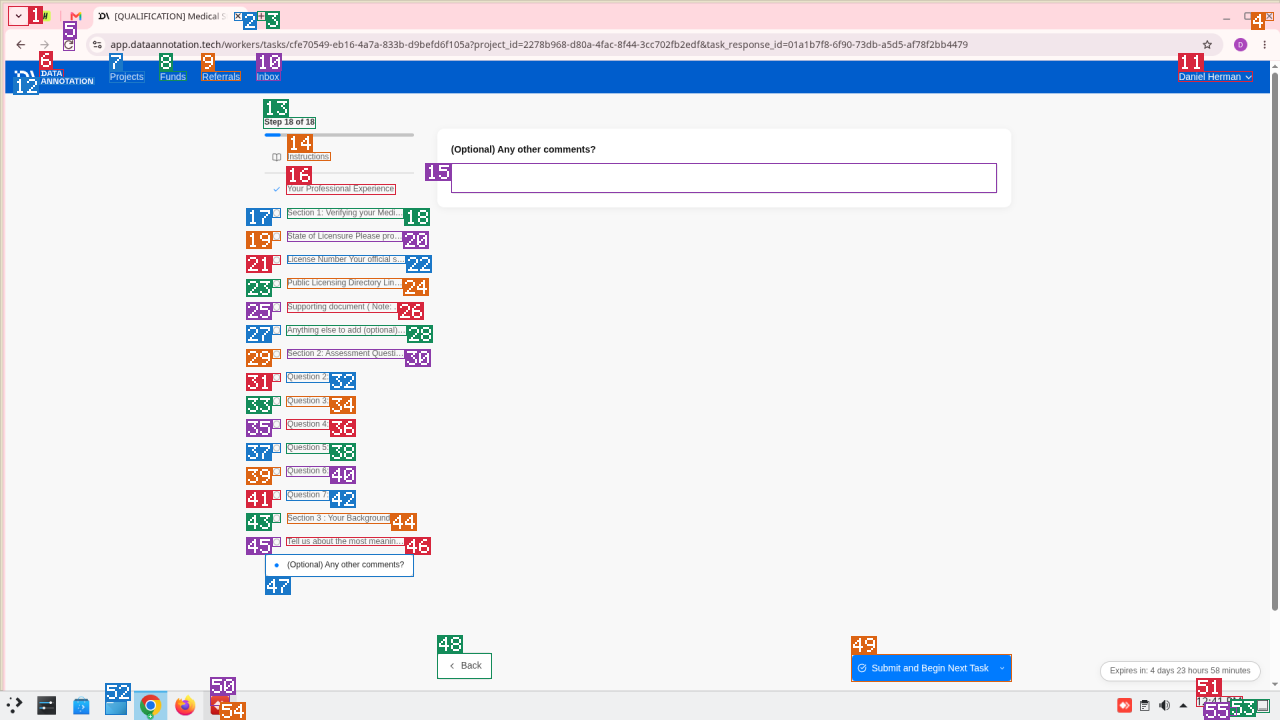
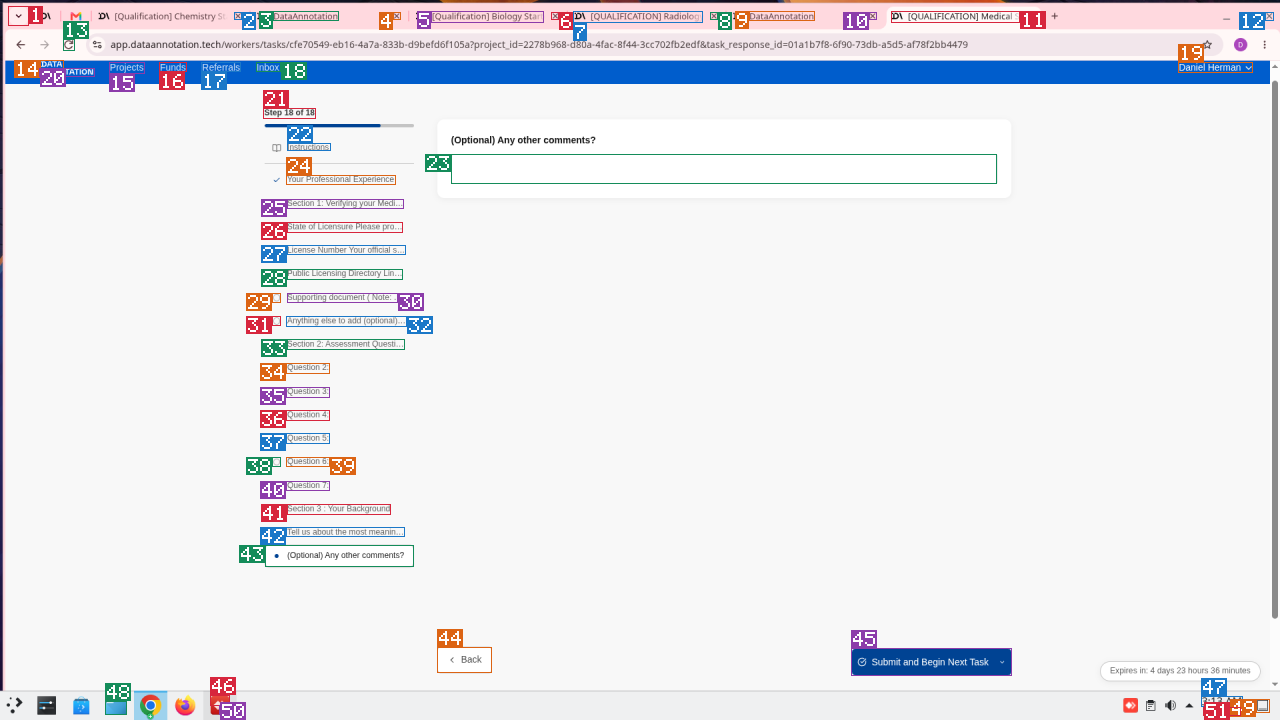
Bank Physician Medical Domain Section3 and Biology/Internist live fills.

diff --git a/skills/take-dataannotation-assessment/problems/problems-biologist.md b/skills/take-dataannotation-assessment/problems/problems-biologist.md
@@ -6,7 +6,7 @@
 - **Captured:** 2026-11-09 · host 34123 · sleep autonomy
 - **Live IDs:** task `9c0d6c30-c43d-49e9-b449-16b48aef2679` · `project_id=a8995013-95b2-4e88-b674-8a9d4a6dc04d` · `task_response_id=01a1c007-5ded-7c9f-89ef-4b4cfbb336bf`
 - **Track:** Role intro = **Biology Projects assessment**; live qualification = **[Qualification] Biology Starter Assessment** (unique biology form — **not** Expert Domain Parallel)
-- **Gaps:** Q1A plant-cross full Response A/B/C prose + DNA strand table + Q7 AI middle steps — PNG assets are source of truth; Instructions OCR may say “chemical reactions” (template bleed) — bank as live
+- **Gaps:** Q7 Medium paragraph line-wrap OCR soft; DNA strand table on Q5 if incomplete — PNG assets remain glyph/table source of truth. Q1A A/B/C + Q7 AI body filled 2026-11-10 host 34123 live OCR. Instructions OCR may say “chemical reactions” (template bleed) — bank as live. **Not** stamping verified.
 - **Rule:** never Submit while fetching
 
 ### Role
@@ -132,13 +132,57 @@ Good luck, and we look forward to receiving your submission!
 ## Question 1A · Allele Inheritance
 
 **Type:** mcq (Responses A/B/C)  
-**Title:** Question 1A: Allele Inheritance *(see PNG for full plant-cross stem)*
+**Title:** Question 1A: Allele Inheritance  
+**Captured:** 2026-11-10 host 34123 · host `ocr` on live Q1A + look `q1a-live-20261110.png`
 
 ### Prompt
 
-Breed fungus-resistant (D) and high-yielding (Y) plants. Plant E: **DDyy**. Plant M: **DdYy**. Plant C (from E×M): healthy **DD** + high yield. Goal **DDYY**. Which parent (E, M, or another Plant C) crossed with Plant C gives the highest ratio of **DDYY** to plants carrying homozygous recessive **dd** or **yy**?
+Imagine a user asked the following request to an AI assistant:
 
-Three AI Responses A/B/C argue different crosses (see `q1-alleles.png`).
+> "A biologist is attempting to breed a plant that is resistant to a specific fungus but also produces high yields. The biologist has obtained a fungus-resistant plant (Plant E) with the homozygous dominant fungus-resistant trait DD but a homozygous recessive low-yield trait yy. A heterozygous high-yielding sample of a plant (Plant M) that has a heterozygous Dd trait has also been obtained and is crossed with the homozygous plant. The first crop of the crossbred plants is grown, and a healthy plant with a homozygous fungal resistance trait that produced a high yield (Plant C) is selected.
+>
+> The biologist can cross Plant C with either Plant E, Plant M, or another healthy new crossbreed with the same traits as Plant C. The ultimate goal is a homozygous dominant plant for both fungus resistance and high yield (DDYY). Considering the goal, is Plant E, Plant M, or another Plant C the best option to cross with the new Plant C to give the highest ratio of plants that meet the DDYY goal to plants with a homozygous recessive trait (dd or yy)?"
+
+The following are three solutions that were returned by the AI:
+
+### Response A
+
+There are two goals in this scenario:
+
+1. Create a fungus resistant plant breed.
+2. Create a high-yielding plant breed.
+
+A low yield would be contrary to the second goal, but a fungal infection that kills the plant would cause both to fail.
+
+Given that, the only potential choice that is guaranteed to have a homozygous fungus-resistant trait is the original Plant E due to its homozygous DD alleles. Both other options risk creating a plant that is vulnerable to the fungus as well as homozygous recessive in terms of yield.
+
+As Plant C is likely to carry an allele for high yield itself, The biologist should cross Plant C with Plant E for the highest ratio of desired homozygous fungus-resistant plants to undesired ones that risk the entire crop failing due to fungal infection.
+
+Does that help?
+
+### Response B
+
+Lets take stock of what we have:
+
+Plant E is a breed with DD and yy alleles.
+
+Plant M is a breed with Dd and YY alleles.
+
+Plant C is from the new crop and can have multiple possible allele combinations that match the description, either the same configuration as Plant M or the same with an additional dominant D instead of a recessive d.
+
+All of the above have beneficial dominant alleles. Since we are trying to avoid having low yielding or fungally vulnerable plants, and Plant C can have two recessive y alleles, it risks a homozygous recessive trait if it is crossed with another plant from the new crop.
+
+To avoid that, the biologist should cross Plant C with Plant M, which is guaranteed to always have at least one dominant allele of each type. The logic for other pathways is flawed and risks creating a vulnerable plant.
+
+### Response C
+
+The latest crop in which Plant C was grown has some plants with a set of DD fungus-resistance alleles and some with Dd, Yy, and yy alleles. The selected plant has a dominant and recessive yield allele, putting it at risk of a homozygous recessive trait if crossed with another plant with a recessive allele.
+
+It would be a mistake to breed the yielding trait of Plant E into any of the new crops, but it would also be a mistake to choose Plant M, which has the same number of recessive alleles as the other original plant. Instead, the biologist should take advantage of the inherited dominant alleles in the selected plant from the new crop and cross Plant C with another plant like it for the highest ratio of plants that meet the goal to plants that have two recessive alleles of the same trait.
+
+Thus, the biologist should cross Plant C with another new crossbred plant from the same crop.
+
+Let me know if I can assist further.
 
 ### Question
 
@@ -153,6 +197,7 @@ Which of the above uses the correct reasoning to reach the answer?
 ### Assets
 
 - `assets/biologist/q1-alleles.png`
+- `assets/biologist/q1a-live-20261110.png`
 
 ---
 
@@ -304,19 +349,59 @@ Please try to avoid creating a problem that's a copy of the above example…
 ## Question 7 · Evaluating AI Reasoning
 
 **Type:** AI response + mcq + explanation  
-**Title:** Question 7: Evaluating AI Reasoning
+**Title:** Question 7: Evaluating AI Reasoning  
+**Captured:** 2026-11-10 host 34123 · host `ocr` + looks `q7-*-live-20261110.png` (PNG = source where OCR wraps cut)
 
 ### Prompt
 
-**User query:** *Schizosaccharomyces pombe* incubated at 25°C in YPD with maltose in airtight sealed flask for 8 hours (Experiment 1). Table 1 gives generations vs temperature under standard conditions (15°C —, 20°C 1, 25°C 1.4, 30°C 2, 35°C 2.2, 40°C —). Adjustments mentioned for optimal medium (+40%), glucose (+8%), nitrogen (+5%), fermentation rates (obligate aerobes 50% / facultative anaerobes 110%). Ask expected generations for Experiment 1.
+Next, you will read a biology problem and an AI's attempt to solve it. You will evaluate the AI's response and determine whether there are any inaccuracies or reasoning flaws.
 
-### AI Response (banked highlights)
+**User query:**
 
-- Treats YPD as optimal medium → +40%
-- Maltose → no glucose bonus
-- Nitrogen present → +5%
-- Sealed flask / fermentation → 110% rate (+10%)
-- Uses **2 generations** base (30°C table row) × 0.55 = **1.1 generations** final
+> A biologist obtains a sample of Schizosaccharomyces pombe and incubates it in a microbiological incubator at 25°C in a YPD liquid culture with a supply of maltose in an airtight sealed flask. It is left to propagate for 8 hours, then it is removed and the amount of growth is measured. This is Experiment 1.
+>
+> The following table, Table 1, shows the number of Schizosaccharomyces pombe generations propagated at certain temperatures under the laboratory's standard conditions based on previous observations. Given that a optimal medium would increase propagation by 40%, the presence of glucose (a monosaccharide) as food would increase it another 8%, and a source of nitrogen would increase it another 5%, how many generations are expected to have grown during Experiment 1 when accounting for the fact that fermentation is 50% the rate of aerobic respiration for obligate aerobes but 110% the rate of aerobic respiration for facultative anaerobes?
+
+**Table 1:** Schizosaccharomyces pombe generations propagated over an 8 hour period under standard conditions.
+
+| Temperature | Generations |
+|-------------|-------------|
+| 15°C | — |
+| 20°C | 1 |
+| 25°C | 1.4 |
+| 30°C | 2 |
+| 35°C | 2.2 |
+| 40°C | — |
+
+### AI Response
+
+*(Host OCR + live looks 2026-11-10. Garbled wraps / °C glyphs → trust PNGs; do not invent.)*
+
+To determine how many generations are expected to form in Experiment 1, let's evaluate the situation step by step:
+
+1. Environment Analysis:
+
+Medium: *(full sentence on `q7-prompt-live-20261110.png` / `q7-ai-mid-live-20261110.png` — host OCR truncated)*  
+• Verdict: The optimal medium will increase propagation by 40%.
+
+Food source: Maltose is provided as the available food source. While this is usable food for S. pombe, it is not as favorable as glucose due to being a more complex disaccharide.  
+• Verdict: Glucose is not present, so there is no propagation increase.
+
+Nitrogen: The peptones and yeast extract in YPD contain nitrogen. Therefore, a nitrogen source is present.  
+• Verdict: The presence of a nitrogen source will increase propagation by 5%.
+
+Oxygen: The yeast is being incubated in an airtight sealed flask, which is an anaerobic environment. S. pombe is capable of respiration via fermentation, so propagation will occur at 110% the normal rate, meaning an increase in propagation of 10%.
+
+2. Propagation Calculation:
+
+- Experiment 1 was carried out at 30°C for 8 hours. Table 1 indicates that 8 hours at 30°C under standard conditions will see 2 generations propagate. *(see `q7-ai-end-live-20261110.png` — host OCR also emitted “300C” / “6 hours” noise)*
+- Adjusting for the conditions in Experiment 1, the standard propagation is increased by 40% + 5% + 10% = 55%.
+- 2 generations * 0.55 = 1.1 generations
+
+3. Final Answer
+
+- The biologist would see 1.1 generations propagated. Despite the airtight environment, the optimal medium, presence of nitrogen, and fermentation allowed for healthy growth.
+- Answer: 1.1 generations
 
 ### Question
 
@@ -335,12 +420,17 @@ In 2-3+ complete sentences, please provide your reasoning for your above selecti
 
 - `assets/biologist/q6-q7-start.png`
 - `assets/biologist/q7-experience.png`
+- `assets/biologist/q7-prompt-live-20261110.png`
+- `assets/biologist/q7-ai-mid-live-20261110.png`
+- `assets/biologist/q7-ai-end-live-20261110.png`
 
 ---
 
 ## Tell us about yourself
 
-That's it for the test questions! …
+*Live re-confirm 2026-11-10 · host 34123 · task `01a1c007…`*
+
+> That's it for the test questions! We appreciate you taking the time to complete this application. To wrap up, please help us get to know you better by providing some basic information about yourself.
 
 ### Professional Experience
 
@@ -361,27 +451,41 @@ Please indicate your primary field of experience:
 
 ### Coding and Computer Science Experience
 
-*(same 5-option coding ladder as Math/Chem/Physics starters)*
+### Parallel
+
+Stem-match to verified Chemist coding ladder (same 5-option starter wording). Live 2026-11-10 host 34123 confirmed the five choice stems are present on Biology Starter.
 
 ### Biology courses (write-in)
 
-Tell us about the biology courses you specialized in during your studies. Which one was your favorite and why? …
+*Verbatim · live 2026-11-10*
+
+> Tell us about the biology courses you specialized in during your studies. Which one was your favorite and why? We'd love to hear about any topics, projects, or challenges that stood out to you!
+
+> Once again, we really appreciate detailed responses here!
+
+**Asset:** `assets/biologist/section3-background-meaningful-live-20261110.png`
 
 ### English fluency
 
-Native / Fluent non-native / Conversational / Limited English
+*Live 2026-11-10 · host 34123*
+
+1. [ ] Native English speaker
+2. [ ] Fluent English speaker, but not native
+3. [ ] Conversational
+4. [ ] Limited English
 
 ### NPI number
 
-Please enter your NPI number below. If you do not have one, please leave blank.
+> Please enter your NPI number below. If you do not have one, please leave blank.
 
 ### Optional comments
 
-(Optional) Any other comments?
+**(Optional) Any other comments?**
 
 ### Footer
 
-- Save to account · **Submit** (do not click) · Clear Response
+- **Save to account** · **Submit** (do not click) · Clear Response
+- Status chrome may show “Saved to this browser automatically” / “Not yet saved to your account.”
 
 ### Assets
 

diff --git a/skills/take-dataannotation-assessment/problems/problems-physician.md b/skills/take-dataannotation-assessment/problems/problems-physician.md
@@ -7,10 +7,12 @@
 - **Leaves:** 18 · `assets/physician/sidebar-inventory.json`
 - **Assessment:** Medical Starter / **Medical Projects** assessment
 - **IDs:** `task_response_id=01a1b7f8-6f90-73db-a5d5-af78f2bb4479` · `project_id=2278b968-d80a-4fac-8f44-3cc702fb2edf`
-- **Gaps:** Credential leaf field prompts OCR-truncated; Section 2 Q2–Q7 parallel Finance/Generalist (Q1 Doyle Brunson verified). Re-catch Supporting document note / license field labels before `full`.
+- **Live 2026-11-10:** Section 3 Background + **Medical Domain** experience checklist + meaningful **Medical-related** write-in live (host 34123). Q5–Q7 titles live (Olympics / Expert Fog London Fog diabetes / general prompt+rubrics).
+- **Gaps:** Credential leaf field prompts still OCR-truncated; Section 2 A/B bodies Parallel from verified Generalist/Economist (stem-matched). Stopped before Submit.
 - **Re-fetch 2026-11-08:** Track **Medical Projects** ✅; Experience **14** radios full list ✅ (`phys_experience_*_refetch.png`); Branch A credentials sidebar (18 leaves) when US MD/DO selected.
 - **Rule:** never Submit while fetching (stopped at Step 18 Submit footer)
 - **Targeting:** Medical filter → **Physician** titled card → verify **Medical Projects assessment** before Start.
+- **Domain note:** Background leaf uses **Medical Domain** / **Medical-related** wording (not Radiology / not Internal Medicine / not Surgical). Section 3 never parallel across domains.
 
 ### Role
 
@@ -27,7 +29,7 @@
 4. [Steps 3–8 · Section 1 Credentials](#steps-3-8--section-1-credentials)
 5. [Step 9 · Section 2 / Question 1](#step-9--section-2--question-1)
 6. [Steps 10–15 · Questions 2–7](#steps-10-15--questions-27)
-7. [Steps 16–17 · Section 3 Background](#steps-16-17--section-3-background)
+7. [Steps 16–17 · Section 3 Background](#steps-16-17--section-3-background) (Medical Domain checklist + Medical-related meaningful)
 8. [Step 18 · Optional comments](#step-18--optional-comments)
 
 ---
@@ -158,13 +160,45 @@ Leaves include:
 
 **Steps:** 10–15 of 18  
 
-Parallel Finance/Generalist Section 1 items (time-travel; NYT; sandwich sonnet; Olympics; London Fog rubric; complex prompt).
+| Step | Title (live 2026-11-10) |
+|------|-------------------------|
+| 10 | Question 2 — time-travel historical day |
+| 11 | Question 3 — NYT first issue Response A/B |
+| 12 | Question 4 — sandwich sonnet Response A/B |
+| 13 | Question 5 — first Summer Olympics after WWII winners / gold medals |
+| 14 | Question 6 — Expert Fog London Fog recipe + diabetes / no almond-soy rubrics |
+| 15 | Question 7 — long complex general prompt + two rubric criteria |
+
+A/B bodies Parallel from verified Generalist/Economist (stem-matched) where applicable.
 
 ## Steps 16–17 · Section 3 Background
 
-**Steps:** 16–17 of 18  
+### Section 3 · Your Background (live 2026-11-10 · host 34123 · Step 16)
 
-Section 3: Your Background + meaningful Medical/clinical education or experience write-in.
+**Header:** Section 3: Your Background
+
+> That's it for the test questions! We appreciate you taking the time to complete this application. To wrap up, we have just a few quick background questions to help us get a better understanding of your familiarity with the **Medical Domain**.
+
+#### Academic and Professional Experience
+
+Please indicate your primary field(s) of experience (select all that apply)
+
+1. [ ] Medicine (MD, DO, MBBS, or equivalent)
+2. [ ] Nursing / Advanced Clinical Practice (e.g., NP, PA)
+3. [ ] Biology / Biological Sciences
+4. [ ] Chemistry / Biochemistry
+5. [ ] Health Sciences / Public Health
+6. [ ] Physics / Medical Physics
+7. [ ] Pharmacology / Pharmacy
+8. [ ] Other (explain in the box below)
+
+**HARD:** Section 3 framing + experience checklist are **Medical Domain**-specific — never parallel from Radiology/Internal Medicine/Surgical/Economics Section 3. Asset: `assets/physician/section3-background-live-20261110.png`
+
+### Background write-in (live 2026-11-10 · host 34123 · Step 17)
+
+> Tell us about the most meaningful Medical-related course or experience you had in your education. Which one was your favorite and why? We'd love to hear about any topics, projects, or challenges that stood out to you! Once again, we really appreciate detailed responses here!
+
+**HARD:** domain token is **Medical-related** on this role — never copy Radiology/Internal Medicine/Surgical/Economics wording. Asset: `assets/physician/section3-meaningful-live-20261110.png`
 
 ## Step 18 · Optional comments
 
@@ -176,5 +210,7 @@ Footer: **Submit and Begin Next Task** — **do not press**.
 ### Assets
 
 - `assets/physician/phys_s18.png`
+- `assets/physician/section3-background-live-20261110.png`
+- `assets/physician/section3-meaningful-live-20261110.png`
 
 <!-- role: Physician | assessmentId: medical | category: Medical | assessmentVersion: Medical Starter -->

diff --git a/skills/take-dataannotation-assessment/FETCH-GOTCHAS.md b/skills/take-dataannotation-assessment/FETCH-GOTCHAS.md
@@ -12,7 +12,7 @@ Read this before writing a single line into `problems-{slug}.md`.
 | Bank **every** main-pane card on a leaf: section headers, “why this assessment…”, review notices, recap blocks, exclusive-option notes | Paraphrase shared intros as “early questions focus on general reasoning…” |
 | On **Section 1** first visit: shot + **verbatim** the intro card **before** Q1 stem | Jump straight to Q1 stem and assume intro is “boilerplate” |
 | Treat Expert Domain Section 1 intro as **shared** — still paste full copy (or link `ASSESSMENT-TRACK-DIFF.md` Shared section) into **each** major’s md | Omit because “same as Finance/Generalist” |
-| **Parallel reuse (2026-11-09):** Autonomously stem-match → copy from **`verified` only**; stamp `### Parallel`. Always **live-fetch** “Tell us about the most meaningful…” + Section 2 domain/Goal/Haiku + Experience | Wait for operator to say parallel; parallel from nearly-full; skip meaningful-experience leaf; Gen Fog → Expert Q6 |
+| **Parallel reuse (2026-11-09 / 11-10):** Autonomously stem-match → copy from **`verified` only**; stamp `### Parallel`. Always **live-fetch** “Tell us about the most meaningful…” (**full sentence** with `{Domain}-related` token — Radiology ≠ Economics ≠ Data Science ≠ **Medical** ≠ **Internal Medicine** ≠ **Surgical and Perioperative**; ellipsis stubs ≠ done) + **Section 3: Your Background** intro/experience checklist (domain-specific — Physician **Medical Domain** checklist ≠ IM/Radiology/Surgical) + Section 2 domain/Goal/Haiku + Experience | Wait for operator to say parallel; parallel from nearly-full; skip/stub meaningful / Section 3; Gen Fog → Expert Q6; stamp Physician Section 3 from Radiology/IM |
 | Include intro/header cards in leaf inventory / reconcile checklist | Count only radio/write-in steps toward “nearly-full” completeness |
 | **Sidebar order (ME 2026-11-09):** Walk **every** leaf in order — **Section 3: Your Background** (experience checkboxes / degrees) is its own leaf **before** Coding / meaningful. Jumping Coding→meaningful while Background unchecked = skip | Skip Background because “Coding/meaningful are the interesting leaves” |
 

diff --git a/skills/take-dataannotation-assessment/problems/ASSESSMENT-TRACK-DIFF.md b/skills/take-dataannotation-assessment/problems/ASSESSMENT-TRACK-DIFF.md
@@ -71,7 +71,7 @@ If any fail → **OCR that leaf**; do not copy.
 2. **Presence of Your Medical Specialization** (Surgical + IM yes; Radiology no).
 3. **Specialization choice list** differs by major (IM **10** vs Surgical **5**; Radiology has none).
 4. **Section 1** credentials vs **Conversation Challenges** on non-credential branches (Medical tracks).
-5. **Background leaf** prompt is **domain-templated** (`{Domain}-related course or experience…`).
+5. **Background leaf** prompt is **domain-templated** (`Tell us about the most meaningful {Domain}-related course or experience…`). **Always live-fetch** — never parallel; never leave `most meaningful…` ellipsis. Confirmed Radiology-related on 34123 2026-11-10.
 6. **Experience lists** are track-specific (Legal radios vs Finance Part1+Part2 role checkboxes vs Medical credential radios).
 
 ## Same *within* a track
@@ -83,7 +83,7 @@ Sibling roles sharing one Starter (`01a1bd0d` Surgical Clinician / Expert / Surg
 1. Internal Medicine — Specialization ✅; Internist + IM Physician bios ✅; Branch B + Q titles pending  
 2. Surgical Medicine — Specialization ✅ (5 options); Experience full list ✅; **3-way branch** (19 / ~23 hybrid / 17) ✅  
 3. Radiology — Q5–Q7 titles; reconfirm no Specialization leaf-by-leaf  
-4. Medical (Physician) — re-verify vs Surgical/IM skeleton  
+4. Medical (Physician) — Section 3 **Medical Domain** checklist + **Medical-related** meaningful live 2026-11-10 ✅  
 5. Legal Expert — Experience 10 ✅; Q1–Q7 ✅; Conversation Haiku **3.5** ✅  
 6. Finance Expert — **16** leaves; Experience **Part 1 + Part 2 (12 roles)** ✅; Q/Conversation pending  
 7. Economics / Accounting / other nearly-full — leaf-by-leaf vs Coding/Generalist verified baselines  

diff --git a/skills/take-dataannotation-assessment/problems/problems-internist.md b/skills/take-dataannotation-assessment/problems/problems-internist.md
@@ -2,13 +2,15 @@
 
 ### Bank
 
-- **captureStatus:** bio
+- **captureStatus:** nearly-full
 - **Captured:** 2026-11-08 · host **34123**
 - **Assessment:** Internal Medicine Starter Assessment V4.1 / **Internal Medicine Projects** assessment
 - **IDs:** shared with IMC — `task_response_id=01a1bd1a-8021-77c0-979b-6fa6eb6f2717` · `project_id=b41f557f-e309-46f3-9de5-8a2b5dcf206e`
+- **Live 2026-11-10:** Track line **Internal Medicine Projects assessment** reconfirmed on sibling IMC What-it-takes page (host 34123). Steps / Section 3 (**Internal Medicine Domain** + meaningful) live on `problems-internal-medicine-clinician.md` — do not re-fetch duplicates.
+- **Gaps:** Unique Internist bio polish only; assessment leaves shared with IMC.
 - **Rule:** never Submit while fetching
 - **Targeting:** Search Internist → titled card → verify **Internal Medicine Projects assessment** before Start.
-- **Steps:** shared with `problems-internal-medicine-clinician.md` (Branch A 19; Specialization leaf banked on IMC).
+- **Steps:** shared with `problems-internal-medicine-clinician.md` (Branch A 19; Specialization leaf banked on IMC; Section 3 live 2026-11-10).
 
 ### Role
 

diff --git a/skills/take-dataannotation-assessment/problems/problems-physicist.md b/skills/take-dataannotation-assessment/problems/problems-physicist.md
@@ -6,7 +6,8 @@
 - **Captured:** 2026-11-09 · host 34123 · sleep autonomy
 - **Live IDs:** task `1ff5229d-1531-4705-81c6-47c1f4f379af` · `project_id=01833c35-1c20-4a01-9dff-5ed039372765` · `task_response_id=01a1c003-3ce8-7159-bea5-a30949654632`
 - **Track:** Role intro = **Physics Projects assessment**; live qualification = **[Qualification] Physics Starter Assessment** (unique physics form — **not** Expert Domain Parallel)
-- **Gaps:** Formula/° OCR noise on Q1 table & Brewster AI reply — PNG assets are source of truth; Professional Experience may be multi-select (“fields”)
+- **Gaps:** Formula/° OCR noise on Q1 table & Brewster AI reply — PNG assets are source of truth; Professional Experience may be multi-select (“fields”). In-assessment formula re-OCR still pending (not opened this sleep pass).
+- **Live 2026-11-10:** Browse-role bio reconfirmed (STEM · 39 hired recently; Overview / What you'll actually do / What we look for / No degree required). Did **not** Start assessment this pass.
 - **Rule:** never Submit while fetching
 
 ### Role

diff --git a/skills/take-dataannotation-assessment/problems/problems-mathematician.md b/skills/take-dataannotation-assessment/problems/problems-mathematician.md
@@ -7,6 +7,7 @@
 - **Live IDs:** task `3545b081-7bfd-4a5d-acc1-8621aec1a4e9` · `project_id=a3a9323d-a733-41bd-9850-a9adf1cb54fe` · `task_response_id=01a1bff6-29eb-7434-b024-4ec518feede3`
 - **Track:** Role bio = **Math Projects assessment**; live qualification title = **[Qualification] Math Starter Assessment** (unique math form — **not** Expert Domain Parallel)
 - **Gaps:** Degree-symbol OCR sometimes reads `°` as `0` (e.g. `1200`); LaTeX below reconstructed from look PNGs — treat PNG assets as source of truth for fractions/°
+- **Live 2026-11-10:** Browse-role bio reconfirmed (STEM · 141 hired recently). Did **not** Start this sleep pass.
 - **Rule:** never Submit while fetching
 
 ### Role
